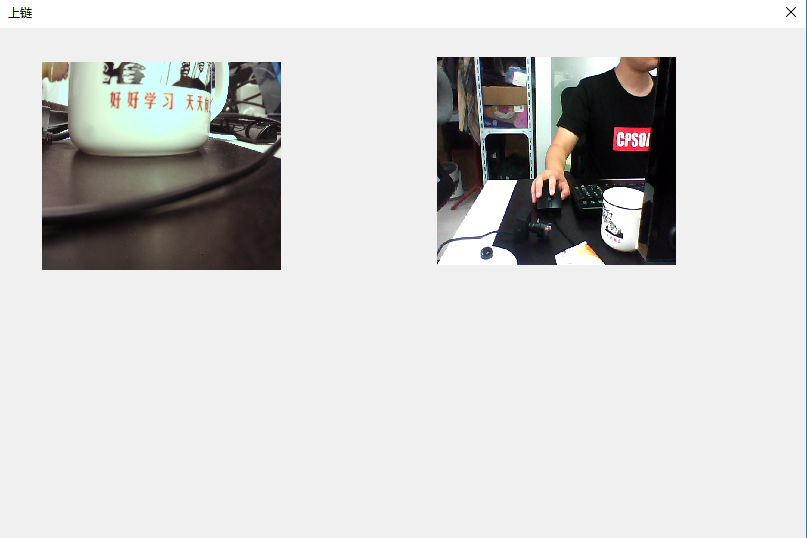
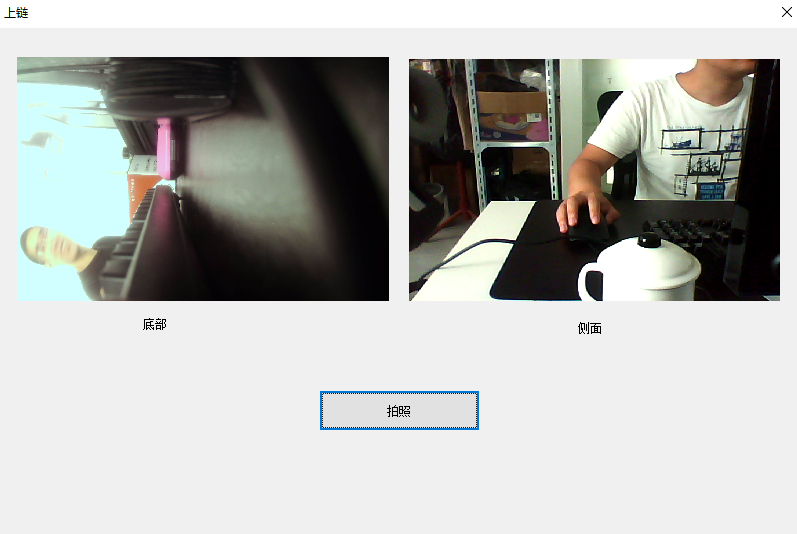
修复usb拍照功能

diff --git a/README.md b/README.md
@@ -28,6 +28,22 @@ zshu
 
 
 
+//具体到本设备：
+//USB Camera有两个Pin
+//Capture pin和Still pin
+//Capture pin用于视频流预览
+//Still pin用于响应抓拍（可以软触发和硬件触发）
+//想要使用Still pin，必须先连接上Capture pin，才能正常使用Still pin
+
+
+YUY2跟RGB是不一样的。
+MJPG是压缩的一种编码格式，跟jpg压缩格式是不一样的。
+如果你要拍照，只在在TransformFilter里抓图就行了。
+要存储为BMP就直接按BMP文件的格式存储就行了，要是想存为JPG的就得用jpeblib库自己再实现压缩后再存储。
+抓图参考例子：DXSDK\Samples\C++\DirectShow\Editing\StillCap
+
+
+
 ### 问题:
 
 Q：
